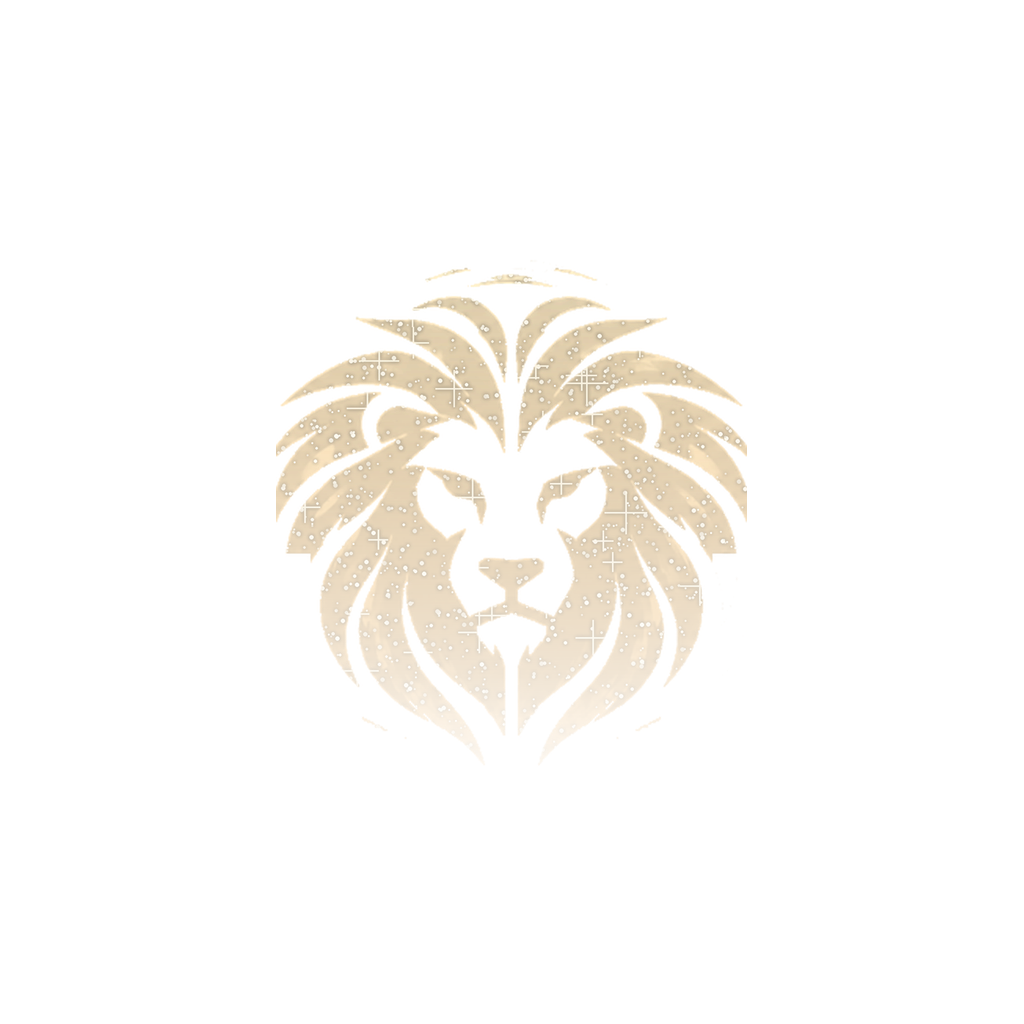
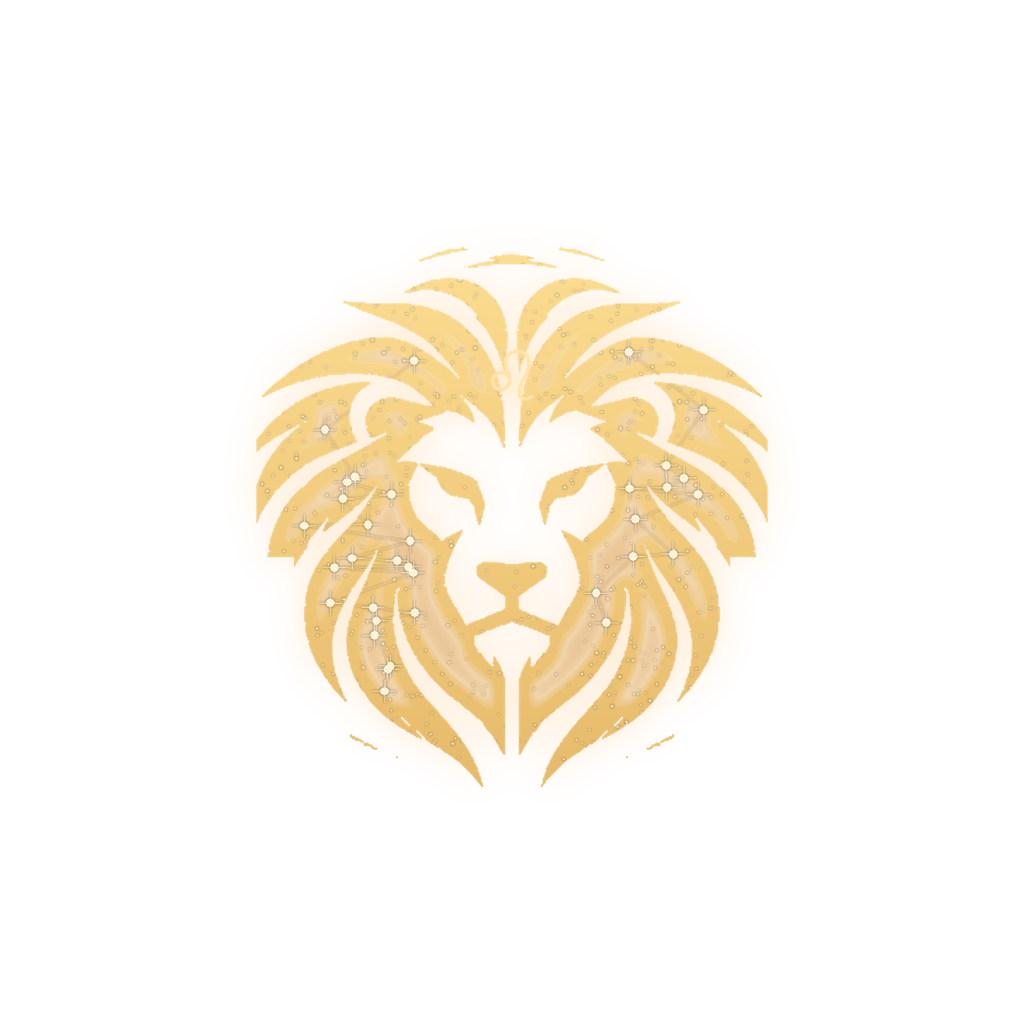
Leon Astral: ícone leão-constelação com roda do zodíaco (v8)
Claude-Session: https://claude.ai/code/session_015QtkNiigeZZHgyGsT8Acyk

Changed region(s): [[0.25, 0.25, 0.75, 0.7812]]

diff --git a/leon-astral-app/tools/make_lion.py b/leon-astral-app/tools/make_lion.py
@@ -1,0 +1,123 @@
+from PIL import Image, ImageDraw, ImageFilter, ImageChops, ImageFont
+import random, math
+FONT='/usr/share/fonts/truetype/dejavu/DejaVuSans.ttf'
+
+def grad_img(S, stops, angle_deg=90):
+    """vertical-ish gradient RGB image; angle 90 = top->bottom"""
+    g=Image.new('RGB',(S,S)); p=g.load()
+    a=math.radians(angle_deg); dx,dy=math.cos(a),math.sin(a)
+    for y in range(S):
+        for x in range(S):
+            t=((x/S-.5)*dx+(y/S-.5)*dy)+.5; t=min(1,max(0,t))
+            for i in range(len(stops)-1):
+                s0,c0=stops[i]; s1,c1=stops[i+1]
+                if t<=s1:
+                    k=(t-s0)/(s1-s0) if s1>s0 else 0
+                    p[x,y]=tuple(int(c0[j]+(c1[j]-c0[j])*k) for j in range(3)); break
+    return g
+
+GOLDPURPLE=[(0,(255,232,190)),(0.4,(243,198,143)),(0.72,(200,150,220)),(1,(150,100,245))]
+
+def make_lion(size_w=900):
+    src0=Image.open('/home/claude/lion_clean.png').convert('RGBA')
+    pad=int(src0.width*0.12); src=Image.new('RGBA',(src0.width+2*pad,src0.height+2*pad),(0,0,0,0)); src.paste(src0,(pad,pad))
+    k=size_w/src.width; W,H=size_w,int(src.height*k)
+    src=src.resize((W,H),Image.LANCZOS)
+    A=src.split()[3]
+    # interior mask: eroded + blurred alpha -> 0 at edges, 1 deep inside
+    er=A.filter(ImageFilter.MinFilter(int(W*0.025)|1)).filter(ImageFilter.GaussianBlur(W*0.012))
+    edge=ImageChops.subtract(A,er)                      # bright rim
+    # base colours
+    gold_hi=Image.new('RGB',(W,H),(255,226,150)); gold_lo=Image.new('RGB',(W,H),(196,128,44))
+    # vertical warmth gradient
+    vg=Image.new('L',(W,H)); vp=vg.load()
+    for y in range(H):
+        v=int(255*(1-0.45*y/H))
+        for x in range(W): vp[x,y]=v
+    body=Image.composite(gold_hi,gold_lo,ImageChops.multiply(vg,Image.eval(edge,lambda v:min(255,v*2+60))))
+    lion=Image.new('RGBA',(W,H),(0,0,0,0))
+    # interior translucent (sky shows through) + bright rim
+    a_int=Image.eval(er,lambda v:int(v*0.42))
+    a_rim=Image.eval(edge,lambda v:min(255,int(v*2.2)))
+    alpha=ImageChops.lighter(a_int,a_rim); alpha=ImageChops.multiply(alpha,A)
+    # keep face line-art crisp: original dark-ish pixels inside face stay
+    lion=Image.merge('RGBA',(*body.split(),alpha))
+    # starfield + constellations inside lion
+    st=Image.new('RGBA',(W,H),(0,0,0,0)); d=ImageDraw.Draw(st); random.seed(5)
+    for _ in range(int(W*H/500)):
+        x,y=random.random()*W,random.random()*H; r=random.choice([.6,.8,1,1.3])*W/900
+        d.ellipse((x-r,y-r,x+r,y+r),fill=(255,236,200,random.randint(120,255)))
+    erp=er.load(); pts=[]
+    tries=0
+    while len(pts)<34 and tries<5000:
+        tries+=1; x,y=random.random()*W,random.random()*H
+        if erp[int(x),int(y)]>150 and abs(x-W/2)>W*0.13: pts.append((x,y))
+    pts.sort(key=lambda p:(p[0]<W/2, p[1]))
+    for side in (True,False):
+        grp=[p for p in pts if (p[0]<W/2)==side]
+        for i in range(len(grp)-1):
+            if math.dist(grp[i],grp[i+1])<W*0.18:
+                d.line((grp[i],grp[i+1]),fill=(255,220,160,150),width=max(1,int(W/600)))
+    for x,y in pts:
+        r=W*0.006; d.ellipse((x-r,y-r,x+r,y+r),fill=(255,245,220,255))
+        L=W*0.018; d.line((x-L,y,x+L,y),fill=(255,240,210,200),width=max(1,int(W/700))); d.line((x,y-L,x,y+L),fill=(255,240,210,200),width=max(1,int(W/700)))
+    st=Image.alpha_composite(st.filter(ImageFilter.GaussianBlur(W/500)),st)
+    st.putalpha(ImageChops.multiply(st.split()[3],A))
+    lion=Image.alpha_composite(lion,st)
+    # leo glyph on forehead (gradient)
+    f=ImageFont.truetype(FONT,int(W*0.11))
+    gl=Image.new('L',(W,H),0); ImageDraw.Draw(gl).text((W/2,H*0.30),'♌',font=f,anchor='mm',fill=255)
+    gcol=Image.new('RGB',(W,H),(255,226,170))
+    glyph=Image.merge('RGBA',(*gcol.split(),gl))
+    glow=glyph.filter(ImageFilter.GaussianBlur(W*0.012))
+    lion=Image.alpha_composite(lion,glow); lion=Image.alpha_composite(lion,glyph)
+    # overall glow halo
+    halo=Image.new('RGBA',(W,H),(255,190,110,0)); halo.putalpha(Image.eval(A.filter(ImageFilter.GaussianBlur(W*0.03)),lambda v:int(v*0.30)))
+    out=Image.alpha_composite(halo,lion)
+    return out
+
+def make_icon(S, lion, wheel=True):
+    c=Image.new('RGBA',(S,S),(8,8,16,255))
+    neb=Image.new('RGBA',(S,S),(0,0,0,0)); d=ImageDraw.Draw(neb)
+    for (x0,y0,x1,y1,col) in [(-.25,-.15,.35,.4,(200,130,60,60)),(.7,-.15,1.25,.35,(200,130,60,50)),(-.25,.65,.35,1.25,(130,70,220,70)),(.65,.65,1.25,1.25,(124,58,237,65)),(.25,.25,.75,.75,(80,45,160,40))]:
+        d.ellipse((S*x0,S*y0,S*x1,S*y1),fill=col)
+    c.alpha_composite(neb.filter(ImageFilter.GaussianBlur(S*0.08)))
+    random.seed(9); d=ImageDraw.Draw(c)
+    for _ in range(int(S*0.7)):
+        x,y=random.random()*S,random.random()*S; r=random.choice([.35,.5,.7,1.0])*S/1024
+        col=random.choice([(255,225,170),(255,240,215),(200,175,255)])
+        d.ellipse((x-r,y-r,x+r,y+r),fill=col+(random.randint(70,220),))
+    cx=cy=S/2
+    if wheel:
+        mask=Image.new('L',(S,S),0); m=ImageDraw.Draw(mask)
+        R1,R2,R3=S*0.47,S*0.40,S*0.355
+        w=max(2,int(S*0.0045))
+        for R in (R1,R2,R3): m.ellipse((cx-R,cy-R,cx+R,cy+R),outline=255,width=w)
+        for i in range(12):
+            a=math.radians(i*30+15); m.line((cx+R2*math.cos(a),cy+R2*math.sin(a),cx+R1*math.cos(a),cy+R1*math.sin(a)),fill=180,width=max(1,w//2))
+        f=ImageFont.truetype(FONT,int(S*0.045))
+        glyphs='♈♉♊♋♌♍♎♏♐♑♒♓'
+        for i,gch in enumerate(glyphs):
+            a=math.radians(180+i*30)  # aries at left, cancer at bottom
+            Rm=(R1+R2)/2; x=cx+Rm*math.cos(a); y=cy-Rm*math.sin(a)
+            m.text((x,y),gch,font=f,anchor='mm',fill=255)
+        # outer thin orbit
+        m.ellipse((cx-S*0.495,cy-S*0.495,cx+S*0.495,cy+S*0.495),outline=110,width=max(1,w//2))
+        gp=grad_img(S,GOLDPURPLE,90)
+        ring=Image.merge('RGBA',(*gp.split(),mask))
+        c.alpha_composite(ring.filter(ImageFilter.GaussianBlur(S*0.006))); c.alpha_composite(ring)
+        # 4 cardinal flares
+        fl=Image.new('RGBA',(S,S),(0,0,0,0)); fd=ImageDraw.Draw(fl)
+        for (x,y) in [(cx,cy-R1),(cx,cy+R1),(cx-R1,cy),(cx+R1,cy)]:
+            for L,wd,al in [(S*0.07,max(2,S//400),230),(S*0.03,max(3,S//250),255)]:
+                fd.line((x-L,y,x+L,y),fill=(255,236,200,al),width=wd); fd.line((x,y-L*1.3,x,y+L*1.3),fill=(255,236,200,al),width=wd)
+            r=S*0.008; fd.ellipse((x-r,y-r,x+r,y+r),fill=(255,255,255,255))
+        c.alpha_composite(fl.filter(ImageFilter.GaussianBlur(S*0.006))); c.alpha_composite(fl)
+    lw=int(S*(0.74 if wheel else 0.95)); lh=int(lion.height*lw/lion.width)
+    l=lion.resize((lw,lh),Image.LANCZOS)
+    c.alpha_composite(l,(int(cx-lw/2),int(cy-lh/2+S*0.01)))
+    return c
+
+if __name__=='__main__':
+    lion=make_lion(900); lion.save('/home/claude/lion_v8.png')
+    for s in (1024,512): make_icon(s,lion).save(f'/home/claude/icon_v8_{s}.png')
